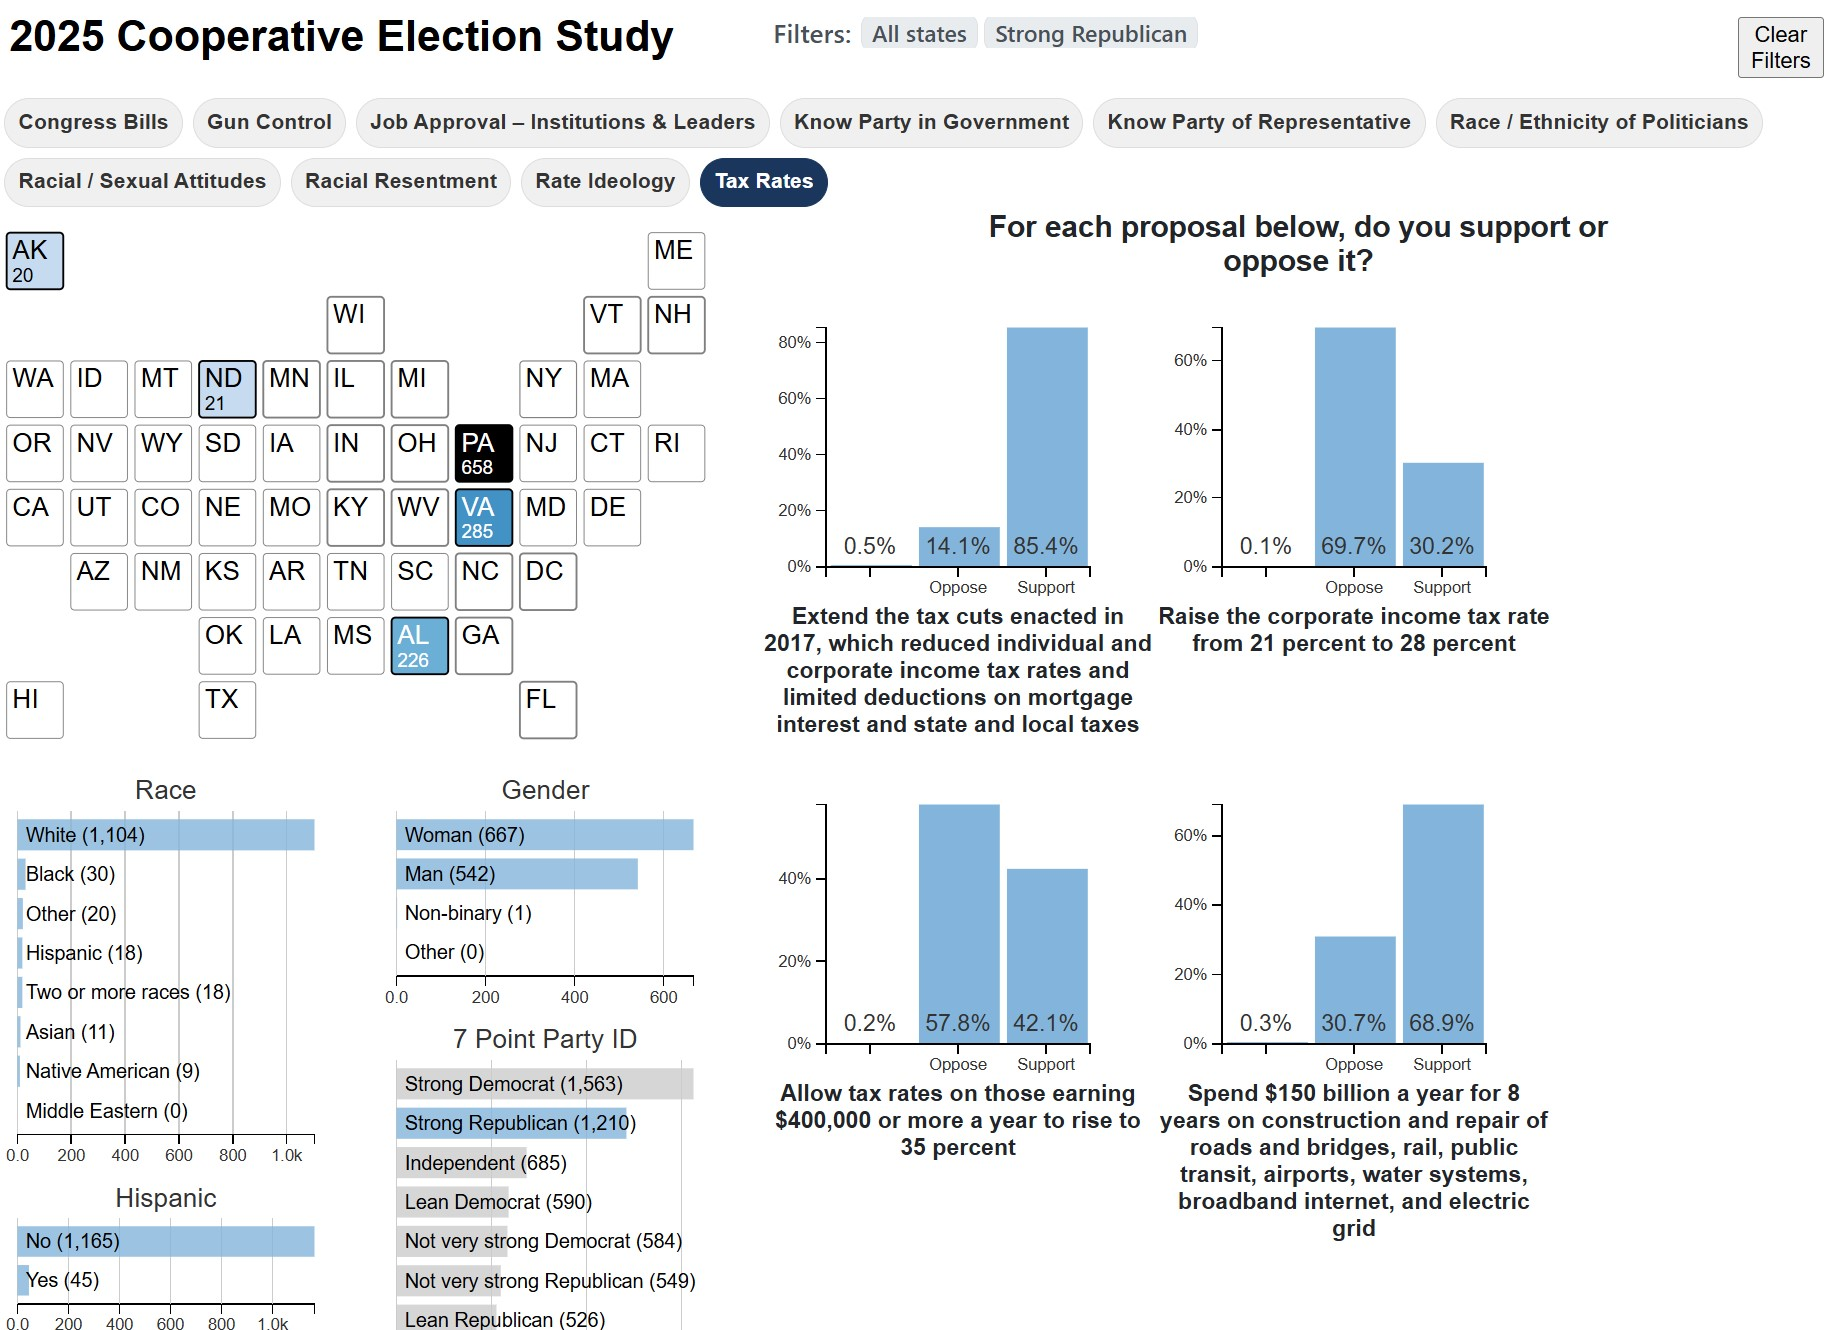
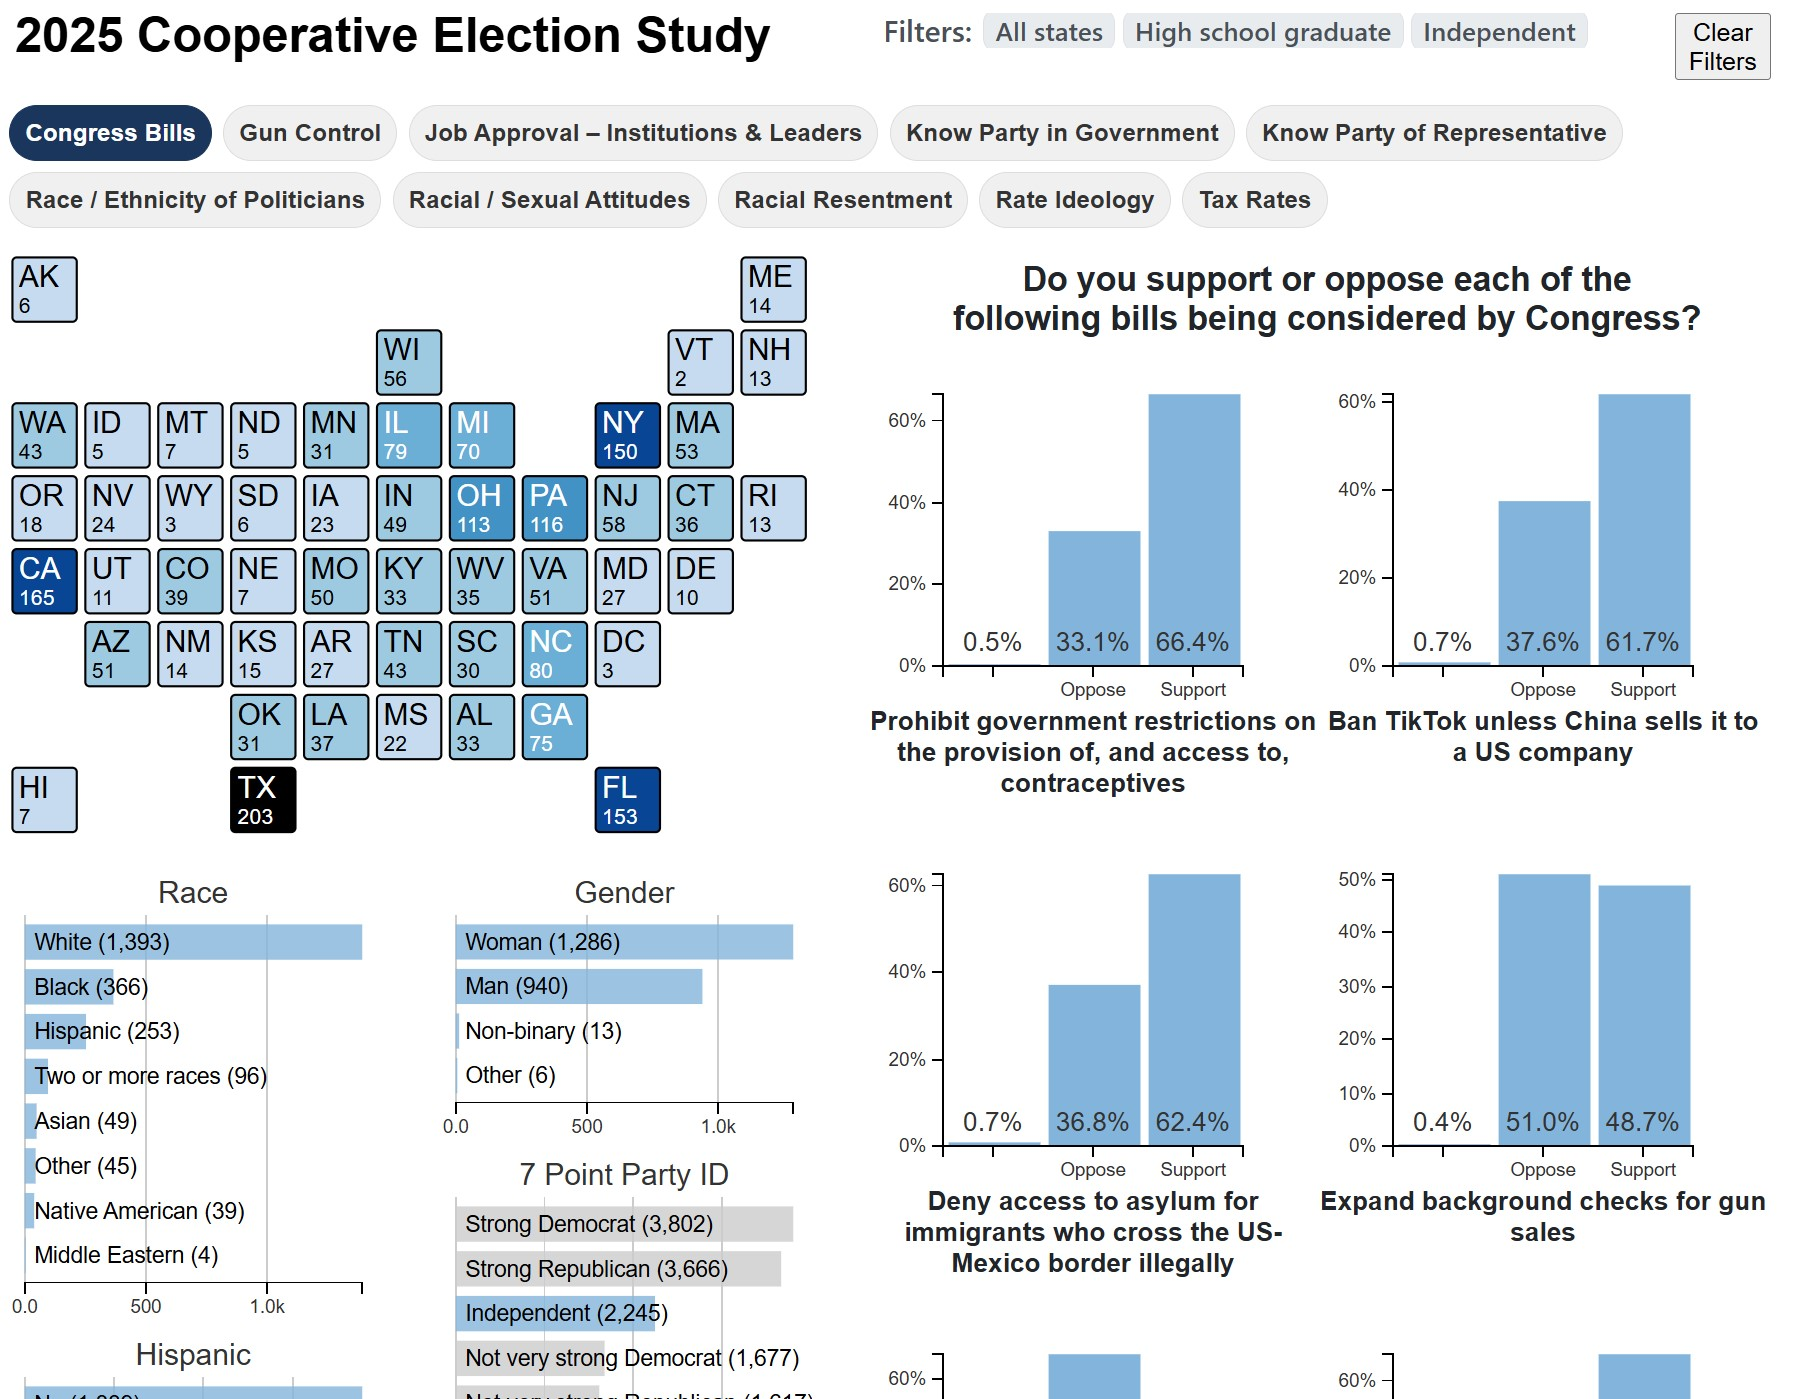
Update polls app

diff --git a/index.html b/index.html
@@ -41,7 +41,7 @@
                     "image": "img/polls.jpg",
                     "when": "June 2025",
                     "type": "Public",
-                    "tech": "&nbsp &nbsp d3.js &nbsp crossfilter &nbsp dc.js &nbsp FastAPI &nbsp SQLModel"
+                    "tech": "Stata &nbsp Apache Arrow &nbsp d3.js &nbsp crossfilter &nbsp dc.js"
                 },
                 {
                     "title": "Survey Analysis",
@@ -50,7 +50,7 @@
                     "image": "img/surveys.gif",
                     "when": "June 2025",
                     "type": "Public",
-                    "tech": "&nbsp &nbsp d3.js &nbsp crossfilter &nbsp dc.js &nbsp FastAPI &nbsp SQLModel"
+                    "tech": "FastAPI &nbsp SQLModel &nbsp &nbsp d3.js &nbsp crossfilter &nbsp dc.js"
                 },
                 {
                     "title": "USAID Media Coverage",
@@ -59,7 +59,7 @@
                     "image": "img/usaid_media.jpg",
                     "when": "February 2025",
                     "type": "Public",
-                    "tech": "&nbsp &nbsp d3.js &nbsp crossfilter &nbsp dc.js &nbsp FastAPI &nbsp SQLModel &nbsp PostgreSQL"
+                    "tech": "FastAPI &nbsp SQLModel &nbsp PostgreSQLnbsp &nbsp d3.js &nbsp crossfilter &nbsp dc.js"
                 },
                 {
                     "title": "Democracy Docket",
